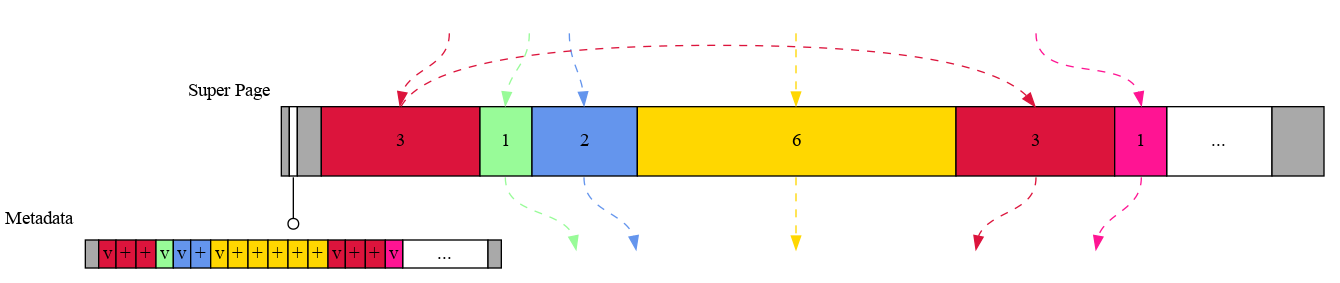
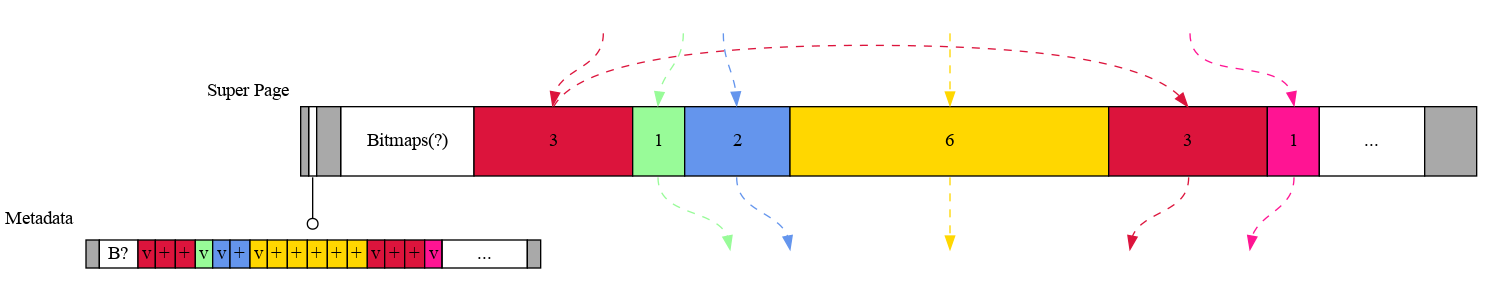
[PA]: Document bitmaps up front
This change takes note of potential bitmaps hiding out beyond the area
where we put most page metadata.

Fixed: 1302401
Commit-Queue: Kalvin Lee <kdlee@chromium.org>
Cr-Commit-Position: refs/heads/main@{#1016017}
NOKEYCHECK=True
GitOrigin-RevId: df43c0a0a3bb5955b43df43bb71d55a9e690360f

diff --git a/allocator/partition_allocator/PartitionAlloc.md b/allocator/partition_allocator/PartitionAlloc.md
@@ -104,6 +104,13 @@ partition page that holds metadata (32B struct per partition page).
       diagram).
 * Gray fill denotes guard pages (one partition page each at the head and tail
   of each super page).
+* In some configurations, PartitionAlloc stores more metadata than can
+  fit in the one system page at the front. These are the bitmaps for
+  StarScan and `MTECheckedPtr<T>`, and they are relegated to the head of
+  what would otherwise be usable space for slot spans. One, both, or
+  none of these bitmaps may be present, depending on build
+  configuration, runtime configuration, and type of allocation.
+  See [`SuperPagePayloadBegin()`][payload-start] for details.
 
 As allocation requests arrive, there is eventually a need to allocate a new slot
 span.
@@ -180,3 +187,4 @@ list.
 [PartitionPage]: https://source.chromium.org/chromium/chromium/src/+/main:base/allocator/partition_allocator/partition_page.h;l=314;drc=e5b03e85ea180d1d1ab0dec471c7fd5d1706a9e4
 [SlotSpanMetadata]: https://source.chromium.org/chromium/chromium/src/+/main:base/allocator/partition_allocator/partition_page.h;l=120;drc=e5b03e85ea180d1d1ab0dec471c7fd5d1706a9e4
 [SubsequentPageMetadata]: https://source.chromium.org/chromium/chromium/src/+/main:base/allocator/partition_allocator/partition_page.h;l=295;drc=e5b03e85ea180d1d1ab0dec471c7fd5d1706a9e4
+[payload-start]: https://source.chromium.org/chromium/chromium/src/+/35b2deed603dedd4abb37f204d516ed62aa2b85c:base/allocator/partition_allocator/partition_page.h;l=454
